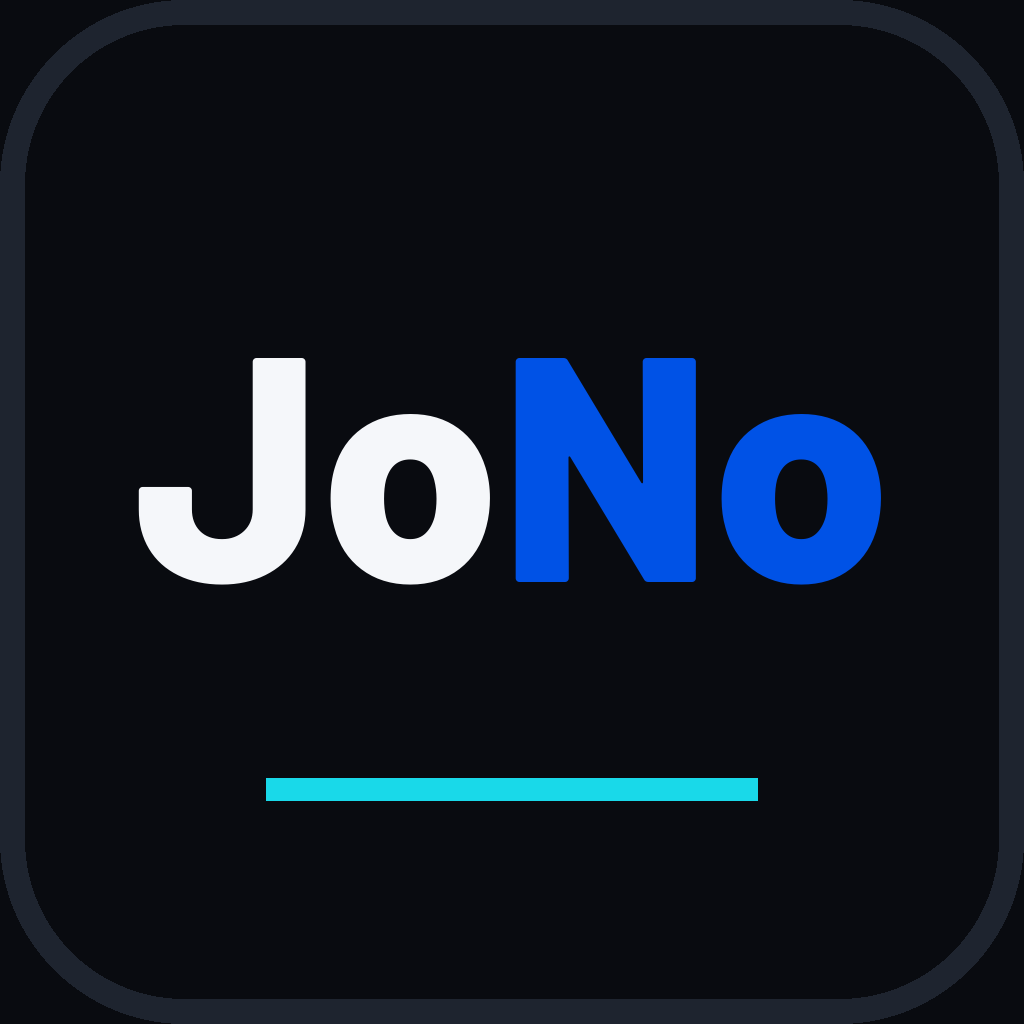
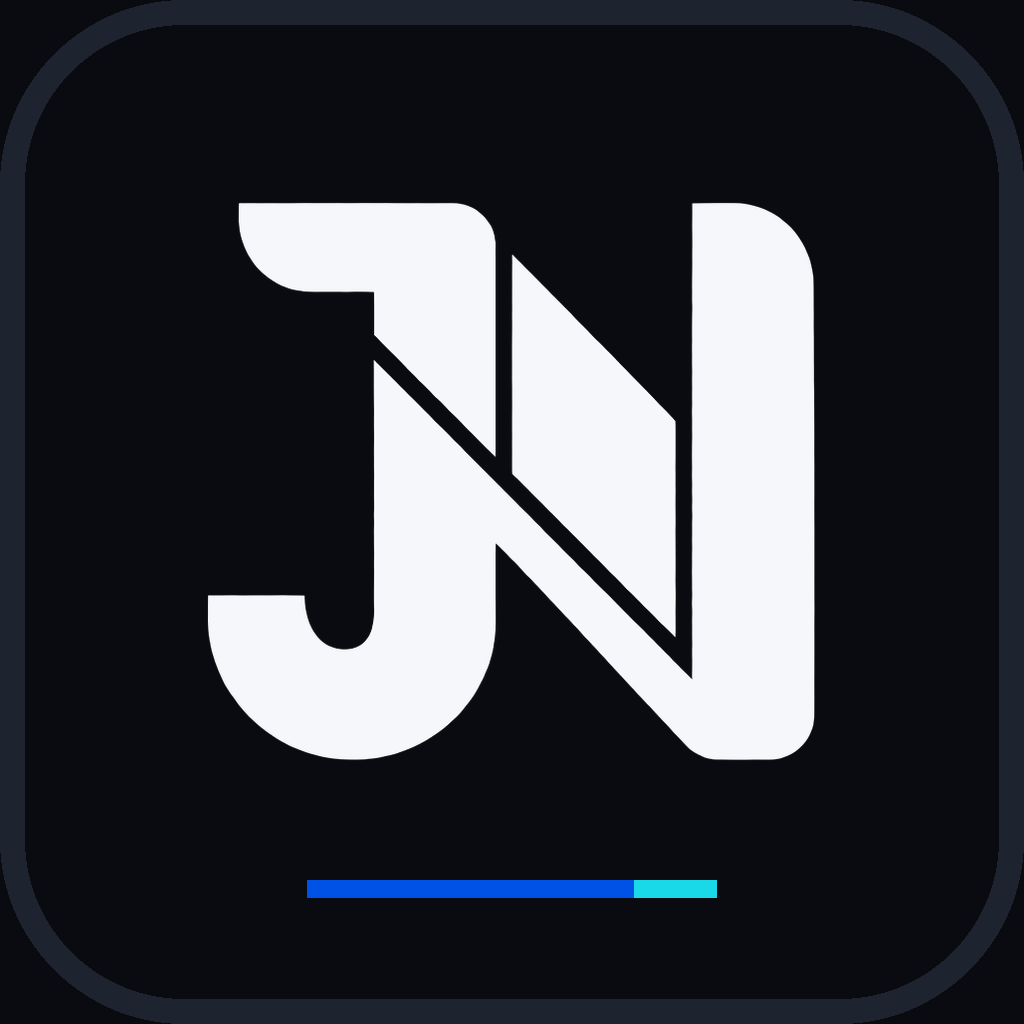
Site: use the JoNo Works JN monogram and lockup
Claude-Session: https://claude.ai/code/session_01EPu3zCvgF5N1o6Fy1wXXCb

Changed region(s): [[0.125, 0.1875, 0.875, 0.7812], [0.2812, 0.8438, 0.7188, 0.875]]

diff --git a/site/index.html b/site/index.html
@@ -51,6 +51,7 @@
   .brand { display: flex; align-items: center; gap: 12px; text-decoration: none; }
   .brand img { height: 24px; width: auto; }
   .brand span { font-weight: 800; letter-spacing: 3px; font-size: 13px; }
+  .brand img.jn { height: 26px; width: auto; }
   .brand .mark { font-size: 20px; letter-spacing: 0; font-weight: 800; line-height: 1; padding: 2px 8px; border: 1.5px solid var(--line); border-radius: 6px; background: var(--elevated); }
   .brand .mark b { color: var(--accent); font-weight: 800; }
   .tabs { display: flex; gap: 2px; background: var(--elevated); border: 1px solid var(--line); border-radius: var(--r-sm); padding: 2px; margin-left: 8px; }
@@ -160,7 +161,7 @@
 <header class="topbar">
   <div class="wrap">
     <a class="brand" href="#actors" aria-label="JoNo Works home">
-      <span class="mark" aria-hidden="true">Jo<b>No</b></span>
+      <img src="assets/jn-mark-white.png" alt="" class="jn">
       <span>JONO WORKS</span>
     </a>
     <nav class="tabs" role="tablist" aria-label="Sections">
